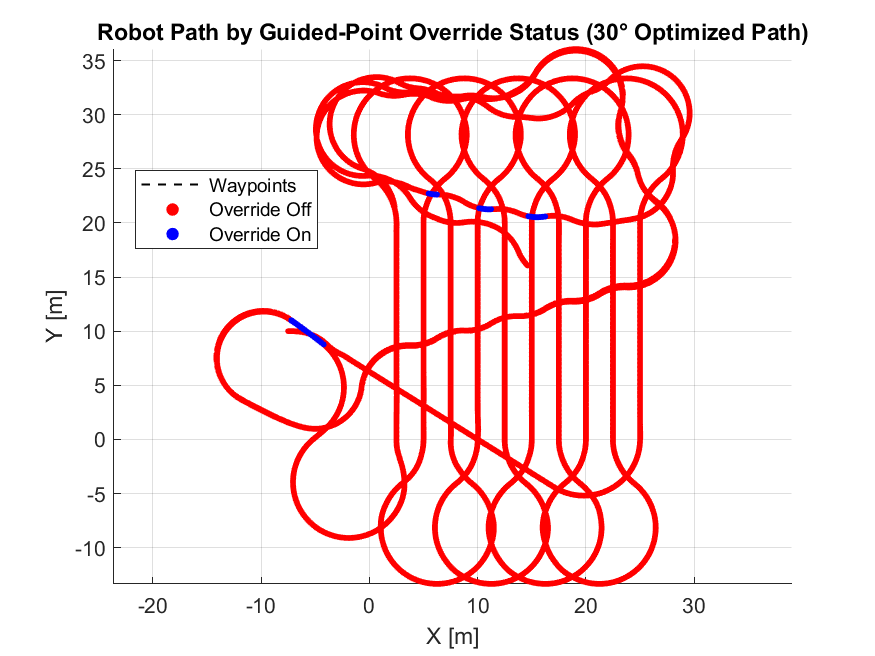
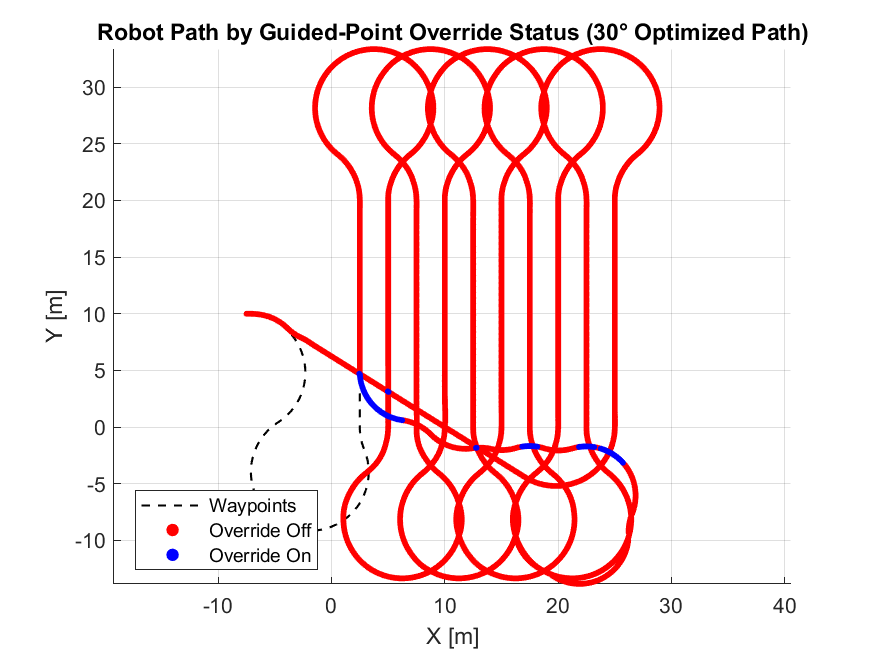
Cost Matrix still faulted, and Q. F is not as good

diff --git a/main/HW3/EBS221_Assignment3.m b/main/HW3/EBS221_Assignment3.m
@@ -847,28 +847,6 @@ fid = fopen('results\F\RMS_optimized_30deg.txt','w');
 fprintf(fid, 'RMS CTE (30° optimized path): %.4f\n', rms_cte);
 fclose(fid);
 
-%% Compare results between original 60° and new 30° solutions
-% Create summary figure showing both paths
-figure; hold on;
-plot(q_history(:,1), q_history(:,2), 'b-', 'LineWidth', 1.5);
-grid on; axis equal;
-title('Path Comparison: 30° Steering Limit');
-xlabel('X [m]'); ylabel('Y [m]');
-saveas(gcf, 'results\F\path_comparison.png');
-
-% Create summary text file
-fid = fopen('results\F\comparison_summary.txt','w');
-fprintf(fid, 'Performance Comparison - 30° Steering Limit\n');
-fprintf(fid, '---------------------------------------------\n\n');
-fprintf(fid, 'RMS CTE (30° optimized path): %.4f m\n', rms_cte);
-fprintf(fid, 'Path Length (30° optimized): %.2f m\n', sum(sqrt(sum(diff(waypoints).^2, 2))));
-fprintf(fid, 'Total Simulation Time: %.2f s\n', length(status_history)*DT);
-fprintf(fid, '\nObservations on 30° Steering Limit Effects:\n');
-fprintf(fid, '- More gradual turns requiring larger turning radius\n');
-fprintf(fid, '- Different optimal path sequence due to turning constraints\n');
-fprintf(fid, '- More guided-point overrides needed during tight turns\n');
-fclose(fid);
-
 %% 
 
 %-----------------------Helper Functions----------------------------------

diff --git a/main/HW3/purePursuitSegmented.m b/main/HW3/purePursuitSegmented.m
@@ -39,7 +39,7 @@ function [steer, cte, status] = purePursuitSegmented( ...
     lastSeg = max(segID);
     end_point = [guidedPoints(end,1), guidedPoints(end,2)]; % The end point coordinates [x, y]
     
-    if gpDist > prevDist && gpDist > 10 && nxgpDist > nxprevDist && curSeg < lastSeg
+    if gpDist > prevDist && gpDist > 5 && nxgpDist > nxprevDist && curSeg < lastSeg
         % steer directly at current guided point
         vecAng = atan2(gp(2)-y, gp(1)-x);
         steer  = wrapToPi(vecAng - th);
